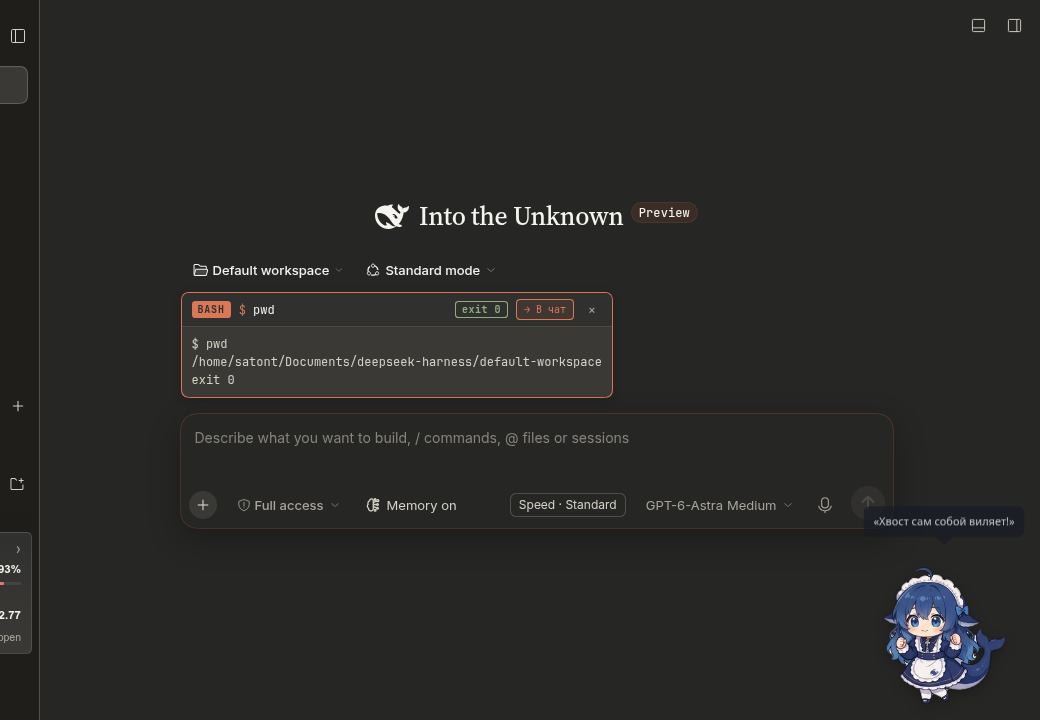
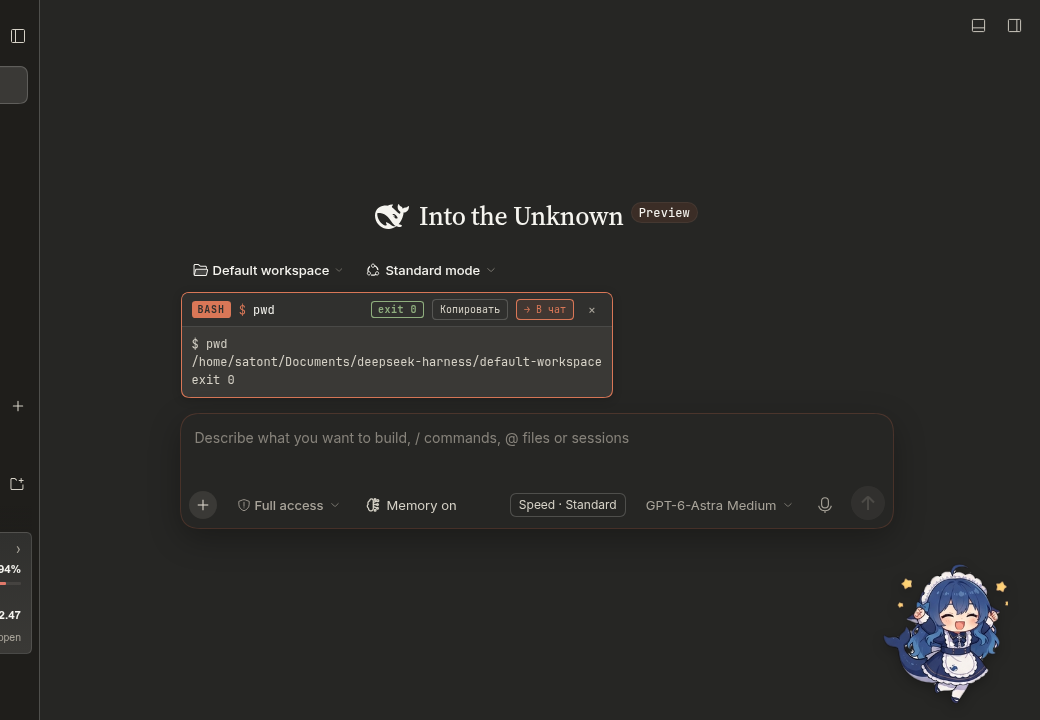
Add copy output button to inline bash

diff --git a/plugins/inline-bash/lib/client.js b/plugins/inline-bash/lib/client.js
@@ -52,6 +52,9 @@ window.__ModuleLoader__.load({
 		.ibx-send{flex:none;display:inline-flex;align-items:center;gap:3px;padding:2px 7px;border:1px solid var(--claude-clay,rgba(217,119,87,.55));border-radius:5px;background:rgba(217,119,87,.10);color:var(--claude-clay,#d97757);font:inherit;font-size:10px;line-height:1.5;cursor:pointer;white-space:nowrap}
 		.ibx-send:hover{background:rgba(217,119,87,.22)}
 		.ibx-send:disabled{opacity:.55;cursor:default}
+		.ibx-copy{flex:none;display:inline-flex;align-items:center;gap:3px;padding:2px 7px;border:1px solid var(--dsw-alias-border-l3,rgba(255,255,255,.16));border-radius:5px;background:transparent;color:var(--dsw-alias-label-secondary,#d6d2c7);font:inherit;font-size:10px;line-height:1.5;cursor:pointer;white-space:nowrap}
+		.ibx-copy:hover{background:var(--dsw-alias-interactive-bg-hover,rgba(255,255,255,.08))}
+		.ibx-copy.copied{color:var(--dsw-alias-state-success-primary,#4caf7d);border-color:var(--dsw-alias-state-success-primary,#4caf7d)}
 		.ibx-close{flex:none;display:flex;align-items:center;justify-content:center;width:20px;height:20px;padding:0;border:none;border-radius:5px;background:transparent;color:var(--dsw-alias-label-tertiary,#a9a49a);font-size:14px;line-height:1;cursor:pointer}
 		.ibx-close:hover{background:var(--dsw-alias-interactive-bg-hover,rgba(255,255,255,.08));color:var(--dsw-alias-label-primary,#f5f4ef)}
 		.ibx-out{margin:0;padding:8px 10px;max-height:240px;overflow:auto;white-space:pre-wrap;word-break:break-word;font-family:inherit;font-size:12px;line-height:1.5;color:var(--dsw-alias-label-secondary,#d6d2c7)}
@@ -125,7 +128,31 @@ window.__ModuleLoader__.load({
 		function ResultCard({ result, onClose, onSend }) {
 		  const bounded = boundOutput(result.text);
 		  const [sendState, setSendState] = React.useState('idle');
+		  const [copyState, setCopyState] = React.useState('idle');
 		  const canSend = (result.kind === 'ok' || result.kind === 'fail') && typeof onSend === 'function';
+		  const copy = React.useCallback(async () => {
+		    const text = String(result.text == null ? '' : result.text);
+		    try {
+		      if (navigator.clipboard !== undefined && typeof navigator.clipboard.writeText === 'function') {
+		        await navigator.clipboard.writeText(text);
+		      } else {
+		        const area = document.createElement('textarea');
+		        area.value = text;
+		        area.style.position = 'fixed';
+		        area.style.opacity = '0';
+		        document.body.appendChild(area);
+		        area.select();
+		        document.execCommand('copy');
+		        area.remove();
+		      }
+		      setCopyState('copied');
+		      window.setTimeout(() => setCopyState('idle'), 1200);
+		    } catch {
+		      setCopyState('error');
+		      window.setTimeout(() => setCopyState('idle'), 1600);
+		    }
+		  }, [result.text]);
+		  const copyLabel = copyState === 'copied' ? 'Скопировано' : copyState === 'error' ? 'Ошибка' : 'Копировать';
 		  const send = React.useCallback(async () => {
 		    if (!canSend || sendState === 'sending' || sendState === 'sent') return;
 		    setSendState('sending');
@@ -145,6 +172,13 @@ window.__ModuleLoader__.load({
 		      h('span', { className: 'ibx-badge' }, 'BASH'),
 		      h('code', { className: 'ibx-cmd', title: result.cmd }, oneLine(result.cmd) || '(empty)'),
 		      h('span', { className: 'ibx-exit ' + (result.kind === 'fail' ? 'fail' : result.kind === 'ok' ? 'ok' : 'hint') }, badge),
+		      h('button', {
+		        type: 'button',
+		        className: 'ibx-copy' + (copyState === 'copied' ? ' copied' : ''),
+		        title: copyState === 'error' ? 'Не удалось скопировать' : 'Скопировать вывод команды',
+		        'aria-label': 'Copy inline bash output',
+		        onClick: () => { void copy(); },
+		      }, copyLabel),
 		      canSend ? h('button', {
 		        type: 'button',
 		        className: 'ibx-send',

diff --git a/plugins/inline-bash/src/client.js b/plugins/inline-bash/src/client.js
@@ -46,6 +46,9 @@ const CSS = `
 .ibx-send{flex:none;display:inline-flex;align-items:center;gap:3px;padding:2px 7px;border:1px solid var(--claude-clay,rgba(217,119,87,.55));border-radius:5px;background:rgba(217,119,87,.10);color:var(--claude-clay,#d97757);font:inherit;font-size:10px;line-height:1.5;cursor:pointer;white-space:nowrap}
 .ibx-send:hover{background:rgba(217,119,87,.22)}
 .ibx-send:disabled{opacity:.55;cursor:default}
+.ibx-copy{flex:none;display:inline-flex;align-items:center;gap:3px;padding:2px 7px;border:1px solid var(--dsw-alias-border-l3,rgba(255,255,255,.16));border-radius:5px;background:transparent;color:var(--dsw-alias-label-secondary,#d6d2c7);font:inherit;font-size:10px;line-height:1.5;cursor:pointer;white-space:nowrap}
+.ibx-copy:hover{background:var(--dsw-alias-interactive-bg-hover,rgba(255,255,255,.08))}
+.ibx-copy.copied{color:var(--dsw-alias-state-success-primary,#4caf7d);border-color:var(--dsw-alias-state-success-primary,#4caf7d)}
 .ibx-close{flex:none;display:flex;align-items:center;justify-content:center;width:20px;height:20px;padding:0;border:none;border-radius:5px;background:transparent;color:var(--dsw-alias-label-tertiary,#a9a49a);font-size:14px;line-height:1;cursor:pointer}
 .ibx-close:hover{background:var(--dsw-alias-interactive-bg-hover,rgba(255,255,255,.08));color:var(--dsw-alias-label-primary,#f5f4ef)}
 .ibx-out{margin:0;padding:8px 10px;max-height:240px;overflow:auto;white-space:pre-wrap;word-break:break-word;font-family:inherit;font-size:12px;line-height:1.5;color:var(--dsw-alias-label-secondary,#d6d2c7)}
@@ -119,7 +122,31 @@ function CloseButton({ onClose }) {
 function ResultCard({ result, onClose, onSend }) {
   const bounded = boundOutput(result.text);
   const [sendState, setSendState] = React.useState('idle');
+  const [copyState, setCopyState] = React.useState('idle');
   const canSend = (result.kind === 'ok' || result.kind === 'fail') && typeof onSend === 'function';
+  const copy = React.useCallback(async () => {
+    const text = String(result.text == null ? '' : result.text);
+    try {
+      if (navigator.clipboard !== undefined && typeof navigator.clipboard.writeText === 'function') {
+        await navigator.clipboard.writeText(text);
+      } else {
+        const area = document.createElement('textarea');
+        area.value = text;
+        area.style.position = 'fixed';
+        area.style.opacity = '0';
+        document.body.appendChild(area);
+        area.select();
+        document.execCommand('copy');
+        area.remove();
+      }
+      setCopyState('copied');
+      window.setTimeout(() => setCopyState('idle'), 1200);
+    } catch {
+      setCopyState('error');
+      window.setTimeout(() => setCopyState('idle'), 1600);
+    }
+  }, [result.text]);
+  const copyLabel = copyState === 'copied' ? 'Скопировано' : copyState === 'error' ? 'Ошибка' : 'Копировать';
   const send = React.useCallback(async () => {
     if (!canSend || sendState === 'sending' || sendState === 'sent') return;
     setSendState('sending');
@@ -139,6 +166,13 @@ function ResultCard({ result, onClose, onSend }) {
       h('span', { className: 'ibx-badge' }, 'BASH'),
       h('code', { className: 'ibx-cmd', title: result.cmd }, oneLine(result.cmd) || '(empty)'),
       h('span', { className: 'ibx-exit ' + (result.kind === 'fail' ? 'fail' : result.kind === 'ok' ? 'ok' : 'hint') }, badge),
+      h('button', {
+        type: 'button',
+        className: 'ibx-copy' + (copyState === 'copied' ? ' copied' : ''),
+        title: copyState === 'error' ? 'Не удалось скопировать' : 'Скопировать вывод команды',
+        'aria-label': 'Copy inline bash output',
+        onClick: () => { void copy(); },
+      }, copyLabel),
       canSend ? h('button', {
         type: 'button',
         className: 'ibx-send',

diff --git a/plugins/inline-bash/README.md b/plugins/inline-bash/README.md
@@ -67,6 +67,7 @@ so a page reload picks the new `client.js`).
 | **Shift+Enter** | Inserts a newline as usual; a multi-line `!` draft runs as one script on Enter |
 | **Escape** (draft starts with `!`) | Clears the draft and leaves bash mode |
 | `×` on the card | Dismisses the local result card |
+| `Копировать` on the card | Copies the full command result to the clipboard; the label briefly changes to `Скопировано` (or `Ошибка`) |
 | `→ В чат` on the card | Sends the command result (bounded display text) as one model message to the current chat; the button changes to `Отправлено` |
 | Any ordinary draft | Completely untouched — Enter is never intercepted |
 
